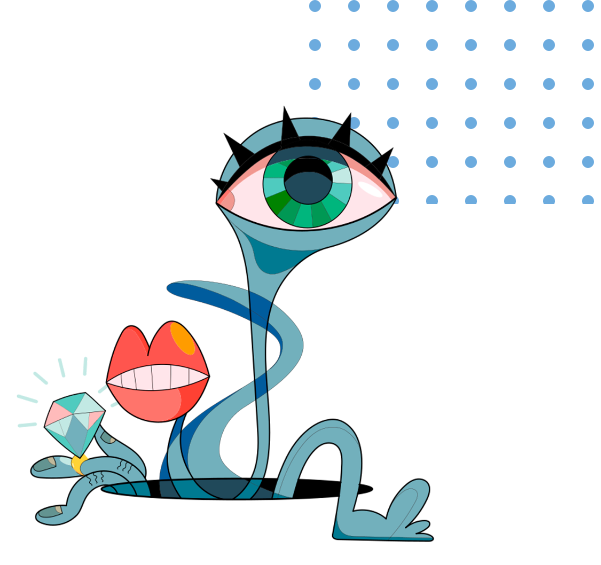
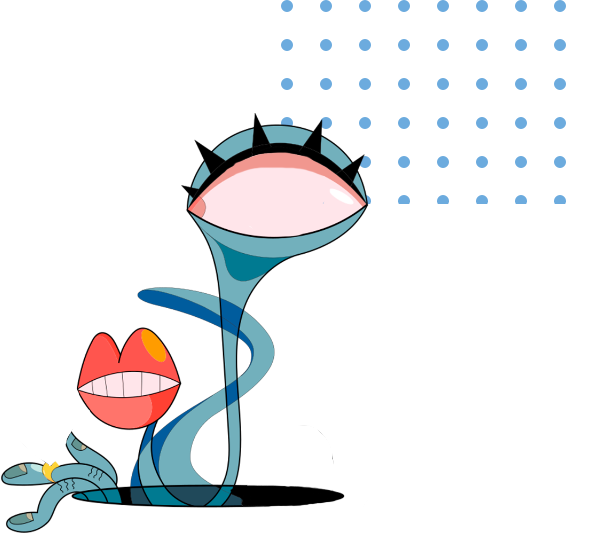
up

diff --git a/src/styles/index.module.css b/src/styles/index.module.css
@@ -4977,77 +4977,60 @@
 }
 
 .aboutImage {
-  background-image: url(../assets/desktop_s/astronaut.png);
-  width: 580px;
-  height: 911px;
-  transform: scale(0.8);
   position: absolute;
+  right: 5px;
   top: 750px;
-  right: -50px;
 }
 
-/*** DESABILITADO POR HORA ***/
-
 .astronautPoint {
-  background-image: url(../assets/mobile/astronautpoint.png);
-  width: 130px;
-  height: 143px;
-  margin: 20px 0 -30px 210px;
-  animation: astronautpoint 10s linear infinite;
-  display: none;
+  background-image: url(../assets/desktop_s/astronautpoint.png);
+  width: 446px;
+  height: 489px;
+  margin: 0 0 0 0px;
 }
 
 .astronautGuy {
-  background-image: url(../assets/mobile/astronautguy.png);
-  width: 269px;
-  height: 127px;
-  margin: 0 auto 80px auto;
-  animation: astronaut 20s linear infinite;
-  display: none;
+  background-image: url(../assets/desktop_s/astronautguy.png);
+  width: 569px;
+  height: 267px;
+  position: absolute;
+  top: 400px;
+  left: -120px;
 }
 
 .astronautBlack {
-  background-image: url(../assets/mobile/astronautblack.png);
-  width: 24px;
-  height: 24px;
+  background-image: url(../assets/desktop_s/astronautblack.png);
+  width: 37px;
+  height: 37px;
   position: absolute;
-  top: 1050px;
-  left: 90px;
-  animation: astronautblack 30s infinite linear;
-  display: none;
+  top: 450px;
+  left: 310px;
 }
 
 .astronautPink {
-  background-image: url(../assets/mobile/astronautpink.png);
-  width: 63px;
-  height: 63px;
+  background-image: url(../assets/desktop_s/astronautpink.png);
+  width: 99px;
+  height: 99px;
   position: absolute;
-  position: absolute;
-  top: 1190px;
-  left: 50px;
-  animation: astronautpink 10s linear infinite;
-  display: none;
+  top: 660px;
+  left: 0px;
 }
 
 .astronautBlue {
-  background-image: url(../assets/mobile/astronautblue.png);
-  width: 34px;
-  height: 34px;
+  background-image: url(../assets/desktop_s/astronautblue.png);
+  width: 53px;
+  height: 53px;
   position: absolute;
-  top: 1280px;
-  left: 290px;
-  animation: astronautblue 10s linear infinite;
-  display: none;
+  top: 750px;
+  left: 300px;
 }
-
-/*** FIM DO DESABILITADO POR HORA ***/
 
 .aboutLine {
   width: 780px;
   height: 680px;
   position: absolute;
-  top: 1590px;
-  left: 200px;
+  top: 1520px;
+  left: 220px;
 }
 
 .aboutOffice {
@@ -5064,7 +5047,7 @@
   width: 837px;
   height: 651px;
   right: -42px;
-  top: 1630px;
+  top: 1570px;
   padding-top: 10px;
   transform: scale(0.9);
 }
@@ -5146,41 +5129,38 @@
 }
 
 .teamArt {
-  background-image: url(../assets/desktop_s/teamart.png);
-  width: 603px;
-  height: 603px;
   position: absolute;
-  top: 1940px;
-  left: -37px;
+  top: 2200px;
+  left: 00px;
 }
 
 /*** DESABILITADO POR HORA ***/
 
 .teamGirl {
-  background-image: url(../assets/mobile/teamgirl.png);
-  width: 160px;
-  height: 210px;
-  margin: 0 0 0 108px;
-  display: none;
+  background-image: url(../assets/desktop_s/teamgirl.png);
+  width: 300px;
+  height: 400px;
+  position: absolute;
+  top: -2500px;
+  left: 75px;
 }
 
 .teamCrown {
-  background-image: url(../assets/mobile/teamcrown.png);
-  width: 38px;
-  height: 24px;
-  margin: -230px 0 0 145px;
-  animation: crown 5s infinite linear;
-  display: none;
+  background-image: url(../assets/desktop_s/teamcrown.png);
+  width: 69px;
+  height: 44px;
+  position: absolute;
+  top: -2700px;
+  left: 255px;
 }
 
 .teamShine {
-  background-image: url(../assets/mobile/teamshine.png);
-  width: 24px;
-  height: 24px;
-  margin: 21px 0 0 176px;
-  transform: scale(0.5);
-  animation: shine 5s infinite linear;
-  display: none;
+  background-image: url(../assets/desktop_s/teamshine.png);
+  width: 25px;
+  height: 23px;
+  position: absolute;
+  top: -2430px;
+  left: 320px;
 }
 
 /*** FIM DO DESABILITADO POR HORA ***/
@@ -5405,7 +5385,6 @@
 }
 
 .wwdAlien {
-  background-image: url(../assets/desktop_s/alien.png);
   width: 601px;
   height: 565px;
   position: relative;
@@ -5417,41 +5396,41 @@
 /*** DESABILITADO POR HORA ***/
 
 .alien {
-  background-image: url(../assets/mobile/alien.png);
-  width: 300px;
-  height: 190px;
-  margin: -148px 0 0 70px;
-  position: relative;
-  display: none;
+  background-image: url(../assets/desktop_s/alien.png);
+  width: 600px;
+  height: 550px;
+  position: absolute;
+  top: 850px;
+  left: -520px;
 }
 
 .alienDiamond {
-  background-image: url(../assets/mobile/aliendiamond.png);
-  width: 46px;
-  height: 45px;
-  margin: -125px 0 0 60px;
+  background-image: url(../assets/desktop_s/aliendiamond.png);
+  width: 104px;
+  height: 104px;
   transform: scale(0.8);
-  animation: diamond 8s linear infinite;
-  display: none;
+  position: absolute;
+  top: 1000px;
+  left: -500px;
 }
 
 .alienLeg {
-  background-image: url(../assets/mobile/alienleg.png);
-  width: 72px;
-  height: 56px;
-  margin: 80px 0 0 180px;
-  animation: leg 3s linear infinite;
-  display: none;
+  background-image: url(../assets/desktop_s/alienleg.png);
+  width: 165px;
+  height: 124px;
+  position: absolute;
+  top: 1125px;
+  left: -190px;
+  z-index: 9;
 }
 
 .alienEye {
-  background-image: url(../assets/mobile/alieneye.png);
-  width: 39px;
-  height: 36px;
-  margin: -172px 0 0 173px;
-  position: relative;
-  animation: eye 9s linear infinite;
-  display: none;
+  background-image: url(../assets/desktop_s/alieneye.png);
+  width: 93px;
+  height: 83px;
+  position: absolute;
+  top: 855px;
+  left: -310px;
 }
 
 /*** FIM DO DESABILITADO POR HORA ***/
@@ -7415,10 +7394,8 @@
 }
 
 .aboutImage {
-  background-image: url(../assets/desktop_s/astronaut.png);
   width: 580px;
   height: 911px;
-  transform: scale(0.8);
   position: absolute;
   top: 750px;
   right: 0px;
@@ -9857,10 +9834,8 @@
 }
 
 .aboutImage {
-  background-image: url(../assets/desktop_s/astronaut.png);
   width: 580px;
   height: 911px;
-  transform: scale(0.8);
   position: absolute;
   top: 750px;
   right: 120px;

diff --git a/src/pages/index.js b/src/pages/index.js
@@ -1179,6 +1179,14 @@ function parallaxAnimTeam() {
         <div className={styles.teamShine} style={{transform: `translateX(${offsetY * 0.0}px) rotate(${offsetY / 2}deg) scale(1.4)`}} />
       </div>
     )
+  } if (size.width >= 1200){
+    return (
+      <div className={styles.teamArt} >
+        <div className={styles.teamGirl} />
+        <div className={styles.teamCrown} style={{transform: `translateY(${offsetY * 0.1}px) scale(1.2)`}}  />
+        <div className={styles.teamShine} style={{transform: `translateX(${offsetY * 0.0}px) rotate(${offsetY / 2}deg) scale(1.4)`}} />
+      </div>
+    )
   } 
 }
 
@@ -1199,6 +1207,15 @@ function parallaxAnimAlien() {
           <div className={styles.alien}/>
           <div className={styles.alienEye} style={{transform: `translateX(${offsetY * 0.03}px)`}}/>
           <div className={styles.alienLeg} style={{transform: `translateY(${offsetY * 0.01}px) translateX(${offsetY * -0.01}px) rotate(${offsetY / 90}deg)`}}/>
+      </div>
+    )
+  } if (size.width >= 1200){
+    return (
+      <div className={styles.wwdAlien} >
+          <div className={styles.alienDiamond} style={{transform: `rotate(${offsetY / -3.8}deg) scale(1.2)`}} />
+          <div className={styles.alien}/>
+          <div className={styles.alienEye} style={{transform: `translateX(${offsetY * 0.03}px)`}}/>
+          <div className={styles.alienLeg} style={{transform: `translateY(${offsetY * 0.01}px) translateX(${offsetY * -0.01}px) rotate(${offsetY / 180}deg)`}}/>
       </div>
     )
   } 
